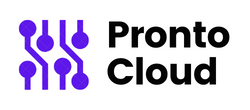
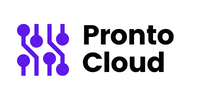
adjuste-design

Changed region(s): [[0.0545, 0.18, 0.9273, 0.84]]

diff --git a/prontocloud/css/styles.css b/prontocloud/css/styles.css
@@ -4,12 +4,11 @@
 
 html {
     font-size: 62,5%;
+    background-color: #fff; 
 }
 
 body {
     font-family: "Source Sans Pro";
-    background-color: #f5f5f5;
-    
 }
 
 .main-container{
@@ -32,36 +31,37 @@ body {
     width: 100%;
     background: #fff;
     padding: 20px;
-    border-bottom: 1px solid #4329b8;
+    border-bottom: 1px solid black;
 }
 
 h1 {
-    font-size: 2,4rem;
+    font-size: 2.1rem;
     color: #c4a644 ;
     margin-bottom: 18px;
 }
 
 h2{
-    font-size: 2rem;
+    font-size: 1.6rem;
     color: #c4a644 ;
     margin-bottom: 18px;
 }
 
 h3 {
-    font-size: 1.8rem;
+    font-size: 1.6rem;
     color: #c4a644 ;
     margin-bottom: 18px;
     padding-top: 10px;
 }
 
 h4{
-    font-size: 1.6rem;
+    font-size: 1.2rem;
     color: #c4a644 ;
     margin-bottom: 13px;
-    padding-top: 10px;
-}
+    padding-top: 10px;  
+}   
 
 p {
+    font-size: 17px;
     margin-bottom: 10px;
     line-height: 1.3;
     color: #cac7c6 ;
@@ -70,21 +70,27 @@ p {
 .guide {
     margin-bottom: 20px;
     margin-left: 30px;
-    font-size: 1.4rem;
+    font-size: 1.0rem;
     color: #cac7c6 ;
 
 }
 
 section {
-    font-size: 1.5rem;
+    font-size: 1rem;
     display: block;
-    width: 100%;
+    width: 100%%;
     float: left;
     padding: 20px;
     background-color: #fff;
 }
 
-.nav {
+.article {
+    display: block;
+    float: left;
+    width: 70%;
+}
+
+.nav {  
     display: block;
     float: left;
     width: 30%;
@@ -95,6 +101,7 @@ nav li {
     padding: 10px;
     background-color: #efefef;
     list-style-type: none;
+
 }
 
 nav li:hover {
@@ -110,23 +117,16 @@ nav a:hover {
     color: #385874;
 }
 
-.article {
-    display: block;
-    float: left;
-    width: 70%;
-}
-
 footer {
     background-color: #c4a644;
     float: left;
-    width: 100%;
-    padding: 20px;
-    border-bottom: 1px solid #4329b8;
+    width: 100vw;
+    padding: 18px;
 }
 
 footer p {
     color: #fff;
-    font-size: 1.4rem;
+    font-size: 1.1rem;
 }
 
 footer small {
@@ -137,7 +137,6 @@ footer small {
 .cognito {
     height: 370px !important;
     overflow: hidden;
-    float: left;
     margin-top: 20px;
 }
 
@@ -148,18 +147,32 @@ img {
 
 #tenho-interesse {
     width: 100vw;
-    border-top: 1px solid #4329b8;
+    border-top: 1px solid black;
+    padding: 20px;
+    align-content: center;
+    display: block;
 }
 
+/*-----layout-responsivo-mobile--------*/
 
 
 @media (max-width: 414px) {
+
     .nav, .article {
         width: auto;
     }
     .container {
         padding-left: 3%;
         padding-right: 3%;
+    }
+    img { 
+        max-width: 100%
+    }
+    h1 {
+        font-size: 1.8rem;
+    }
+    h2, h3 {
+        font-size: 1.4rem;
     }
 }
 
@@ -171,13 +184,85 @@ img {
         padding-left: 3%;
         padding-right: 3%;
     }
+    img { 
+        max-width: 100%;
+    
+    }
+    h1 {
+        font-size: 1.8rem;
+    }
+    h2, h3 {
+        font-size: 1.4rem;
+    }
 }
 
 
+/*-----landing-page--------*/
+
+#banner {
+    background-image: url(../imagens/pexels-antoni-shkraba-4348401.jpg);
+    background-repeat: no-repeat;
+    background-position: center;
+    background-size: cover;
+    width: 100vw;
+    height: 400px;
+}
 
 
+.legenda-container {
+    width: 30vw;
+    float: right;
+    margin: 5vw 10vw 0 0;
+   
+}
+
+.legenda {
+    padding: 20px;
+    border-radius: 5px;
+    background-color: rgba(255, 255, 255, 0.6);
+    margin-bottom: 38px;
+   
+}
+
+.legenda h5, .legenda h4{
+    color: rgb(92, 86, 86);
+    line-height: 1;
+}
 
 
+.btn-cta {
+    border-radius: 25px;
+    display: inline;
+    background-color: #c4a644;
+    color: #fff;
+    font-size: 17.5px;
+    box-shadow: 1px 1px 4px rgb(82, 80, 80);
+    padding: 10px 20px;
+    width: auto;
+    text-decoration: none;
+    font-weight: 400;
+    float: right;
+    text-transform: uppercase;
+}
 
+#saiba-mais {
+    background-color: #cac7c6;
+    padding: 40px 20;
+}
 
+#saiba-mais p,
+#saiba-mais img {
+    width: 50%;
+    display: block;
+    float: left !important;
+    padding: 20px;
+}
+
+.header-sm {
+    display: block;
+    float: left;
+    width: 100%;
+    background: #fff;
+    padding: 20px 0;
+}
 

diff --git a/prontocloud/saiba-mais.html b/prontocloud/saiba-mais.html
@@ -1,0 +1,71 @@
+<!-----Blogue sobre meus servicos----->
+
+        <!DOCTYPE html>
+        <html lang="en">
+            <head>
+                <meta charset="UTF-8">
+                <meta http-equiv="X-UA-Compatible" content="IE=edge">
+                <meta name="viewport" content="width=device-width, initial-scale=1.0">
+                    
+                    <!------CSS----->
+                <link rel="stylesheet" href="../Projeto - CSS Foundation II/CSS/reset.css">
+                <link rel="stylesheet" href="./css/styles.css">
+                    
+                    <!-----Fontes---->
+                <link rel="preconnect" href="https://fonts.googleapis.com"> 
+                <link rel="preconnect" href="https://fonts.gstatic.com" crossorigin> 
+                <link href="https://fonts.googleapis.com/css2?family=Source+Sans+Pro:ital,wght@0,200;0,300;0,400;0,600;0,700;1,300&display=swap" rel="stylesheet">
+                    <!------Icones----->
+                <link rel="shortcut icon" href="./imagens/favicon_io/favicon.ico"> <!----17x17px---->
+                <link rel="apple-touch-icon" href="./imagens/favicon_io/apple-touch-icon.png">
+                <title>ProntoCloud</title>
+
+            </head>
+            <body>
+                <div class="main-container">
+                        <header class="header-sm">
+                            <div class="container">
+                                <img src="./imagens/Untitled design.png" alt="ProntoCloud">
+                            </div>
+                        </header>
+                        <section id="banner">
+                         <div class="container">
+                         <div class="legenda-container">
+                              <div class="legenda">
+                                <h4>Crie seu site profissional</h4>
+                                <h5>Aqui na ProntoCloud você tem solução completa</h5>
+                             </div>
+                             <a class="btn-cta" href="#tenho-interesse">Tenho Interesse</a>
+                         </div>
+                         </div>
+                        </section>
+                <section id="#saiba-mais">
+                    <div class="container">
+                        <h1>Planejamento para criação de sites</h1>
+                            <img src="./imagens/pexels-fauxels-3184292.jpg" alt="Planejamento para criação de sites">
+
+                             <p>Lorem ipsum dolor sit amet, consectetur adipisicing elit. Nisi magnam, asperiores quibusdam sit veritatis repudiandae ex eius distinctio neque, vel, id incidunt dolorem ab temporibus odio minima libero dignissimos rerum?
+                                Lorem ipsum, dolor sit amet consectetur adipisicing elit. Ab perspiciatis autem quo quae eveniet pariatur perferendis unde dignissimos eos atque est, dolorem vero natus, odio quasi. Est quis dolor facere.</p>
+                    </div>    
+                </div>    
+                <section id="tenho-interesse">
+                    <div class="container">
+                        <article >
+                            <h1>Ficou interessado?</h1>
+                            <p>Então preencha os campos abaixo para receber mais informaçōes sobre nossos produtose serviços.</p>
+
+                        <div class="cognito"> <!----formulario-->
+                            <script src="https://www.cognitoforms.com/f/seamless.js" data-key="zXMC8pwpTECbNuOhxenndQ" 
+                            data-form="1"></script>
+                            </div>
+                        </article>
+                    </div>            
+                </section>     
+                </section>     
+                <footer class="footer">
+                        <div class="container"><p>&copy; ProntoCloud. Todos os direitos reservados.
+                        <small>Desenvolvido por Felipe Reis</small></p>
+                        </div>
+                </footer>
+            </body>
+        </html>

diff --git a/prontocloud/index.html b/prontocloud/index.html
@@ -25,15 +25,15 @@
                 <div class="main-container">
                         <header class="header">
                             <div class="container">
-                                <img src="./imagens/Pronto Cloud.png" alt="ProntoCloud">
+                            <img src="./imagens/Untitled design.png" alt="ProntoCloud">
                             </div>
                         </header>
                 <section>
-                        <nav class="nav">
+                        <nav class="nav" id="navLinks">
                             <ul>
-                                <li><a href="#">Home</a></li>
+                                <li><a href="#top">Home</a></li>
                                 <li><a href="#">Sobre nós</a></li>
-                                <li><a href="#">Tenho Interesse</a></li>
+                                <li><a href="./saiba-mais.html">Tenho Interesse</a></li>
                             </ul>
                         </nav>
                     <article class="article">
@@ -61,7 +61,7 @@
                             <p>Lorem ipsum, dolor sit amet consectetur adipisicing elit. Non distinctio nobis sunt nostrum nihil quos dignissimos ad praesentium voluptatem ipsum ab, cumque, ducimus expedita rem necessitatibus rerum tenetur odio asperiores.</p>
                             <p>Lorem ipsum dolor sit amet consectetur adipisicing elit. Modi tenetur maiores molestias corporis, laborum quasi ipsam voluptates tempora ducimus enim possimus magnam fuga veritatis cupiditate debitis in provident! Voluptatibus, tempora?</p>
 
-                            <h4>2.Qual o tipo de site mais apropriado</h4>
+                            <h4>2. Qual o tipo de site mais apropriado</h4>
                             <p>Lorem ipsum, dolor sit amet consectetur adipisicing elit. Nisi a dolor voluptate, fuga atque expedita ex nemo fugiat tenetur ad odit deserunt necessitatibus officia reprehenderit laborum aliquid maxime delectus. Dolore.</p>
                             
                             
@@ -93,7 +93,7 @@
                 </div>    
                 <section id="tenho-interesse">
                     <div class="container">
-                        <article >
+                        <article class="titulo-form">
                             <h1>Ficou interessado?</h1>
                             <p>Então preencha os campos abaixo para receber mais informaçōes sobre nossos produtose serviços.</p>
 
@@ -110,5 +110,8 @@
                         <small>Desenvolvido por Felipe Reis</small></p>
                         </div>
                 </footer>
+        
+
+
             </body>
         </html>

diff --git a/README.md b/README.md
@@ -1,3 +1,4 @@
+
 # Curso Front-end
 #### EBAC
 
